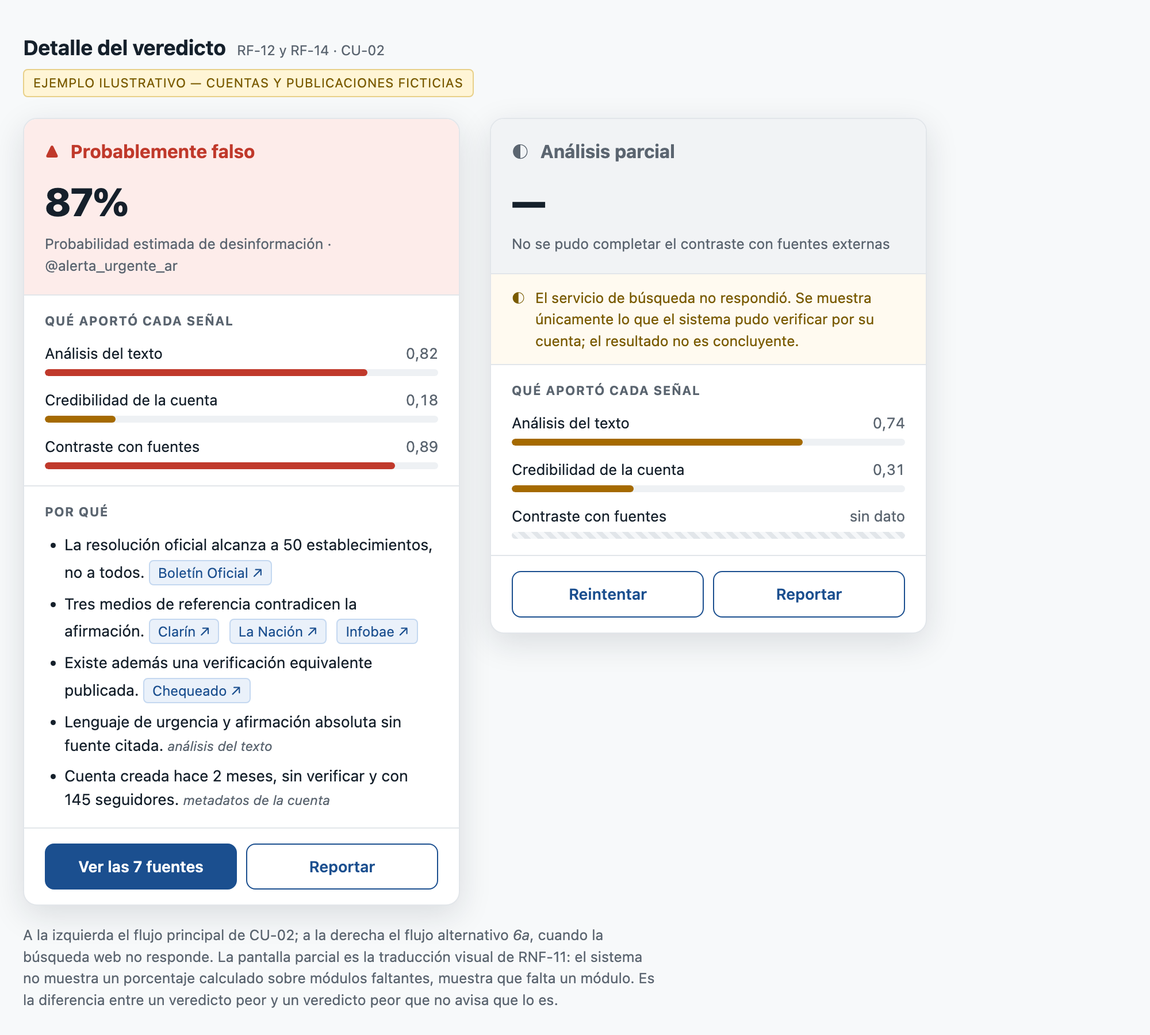
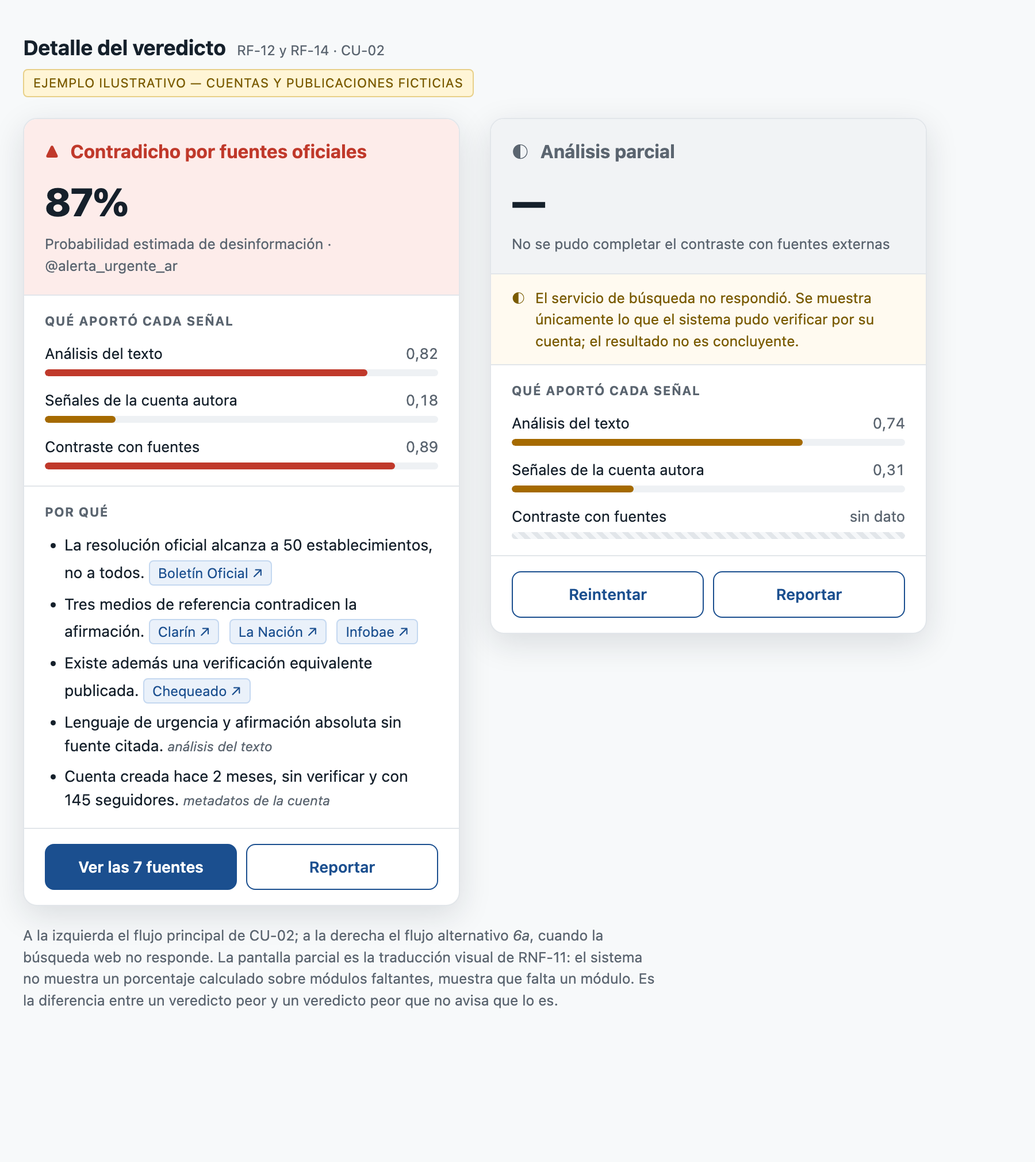
Reescribir requerimientos con las decisiones de agosto
- RNF-08 distingue recibir de persistir la IP; el enunciado anterior
  prometía algo que HTTPS no permite cumplir
- RNF-06 pasa a ser cumplible con el estado «sin contraste externo», que
  el flujo automático emite cuando solo corrió el Módulo 1
- RNF-07 prescribe sobre qué se enuncia y a quién se atribuye, en lugar
  de «probabilidad y no sentencia»
- RF-08, RF-11 y RF-12 con las etiquetas nuevas; RF-24, RF-25 y RNF-10
  ampliados de exportación a toda entrega hacia terceros
- Nuevos RF-28 (índice de fuentes oficiales), RF-29 (textos de cara al
  usuario) y RNF-17 (robots.txt y crawl-delay)
- CU-01, CU-02 4a, CU-03 2a y CU-07 4a alineados; matriz de trazabilidad
  cerrada, con los cuatro RF sin caso de uso justificados
- Mockups y metodologia-tecnica.md alineados y recapturados

Cierra #16.

diff --git a/wiki/assets/mockups/mockups.html b/wiki/assets/mockups/mockups.html
@@ -189,7 +189,7 @@
         <p class="texto">🚨🚨 URGENTE: confirman que a partir del lunes CIERRAN TODAS las escuelas de la Provincia. Me lo pasó alguien del Ministerio. COMPARTAN ANTES DE QUE LO BAJEN 🚨🚨</p>
         <button class="badge b-falso">
           <span class="fig">!</span>
-          <span class="txt"><b>Probablemente falso · 87%</b><em>Lo contradicen el Boletín Oficial, Clarín, La Nación e Infobae</em></span>
+          <span class="txt"><b>Contradicho por fuentes oficiales · 87%</b><em>Lo contradicen el Boletín Oficial, Clarín, La Nación e Infobae</em></span>
           <span class="mas">Ver análisis</span>
         </button>
         <div class="acciones"><span>↩ 42</span><span>🔁 1.204</span><span>♡ 3.891</span></div>
@@ -238,7 +238,7 @@
     </div>
   </div>
 
-  <p class="pie">Los cuatro estados de RF-11. El estado se comunica por tres canales simultáneos —color, forma del ícono y texto— para que no dependa de la percepción del color (RNF-15). Ninguno de los indicadores afirma que el contenido sea falso: el más severo dice <em>probablemente</em> y expone el porcentaje, que es la mitigación de RNF-07 frente a los falsos positivos por sátira o ironía.</p>
+  <p class="pie">Los cuatro estados de RF-11. El estado se comunica por tres canales simultáneos —color, forma del ícono y texto— para que no dependa de la percepción del color (RNF-15). Ninguno de los indicadores afirma por sí mismo que el contenido sea falso: el más severo atribuye el juicio a la fuente que lo sostiene y expone el porcentaje, que es la mitigación de RNF-07 frente a los falsos positivos por sátira o ironía.</p>
 </section>
 
 <!-- ============ 2. POPUP ============ -->
@@ -249,7 +249,7 @@
   <div class="fila">
     <div class="popup">
       <div class="p-tapa falso">
-        <div class="p-vered"><span>▲</span> Probablemente falso</div>
+        <div class="p-vered"><span>▲</span> Contradicho por fuentes oficiales</div>
         <div class="p-score">87%</div>
         <div class="p-sub">Probabilidad estimada de desinformación · @alerta_urgente_ar</div>
       </div>
@@ -261,7 +261,7 @@
           <div class="barra"><i style="width:82%;background:var(--falso)"></i></div>
         </div>
         <div class="mod">
-          <div class="mod-t"><span>Credibilidad de la cuenta</span><span>0,18</span></div>
+          <div class="mod-t"><span>Señales de la cuenta autora</span><span>0,18</span></div>
           <div class="barra"><i style="width:18%;background:var(--sosp)"></i></div>
         </div>
         <div class="mod">
@@ -313,7 +313,7 @@
           <div class="barra"><i style="width:74%;background:var(--sosp)"></i></div>
         </div>
         <div class="mod">
-          <div class="mod-t"><span>Credibilidad de la cuenta</span><span>0,31</span></div>
+          <div class="mod-t"><span>Señales de la cuenta autora</span><span>0,31</span></div>
           <div class="barra"><i style="width:31%;background:var(--sosp)"></i></div>
         </div>
         <div class="mod">
@@ -436,7 +436,7 @@
 
     <div class="kpis">
       <div class="kpi"><b>18.427</b><span>Publicaciones analizadas</span></div>
-      <div class="kpi"><b>1.312</b><span>Marcadas como probablemente falsas</span></div>
+      <div class="kpi"><b>1.312</b><span>Contradichas por fuentes oficiales</span></div>
       <div class="kpi"><b>7,1%</b><span>Tasa de contenido marcado</span></div>
       <div class="kpi"><b>+2,4 pp</b><span>Variación semanal <em>▲</em></span></div>
     </div>

diff --git a/wiki/solucion/requerimientos.md b/wiki/solucion/requerimientos.md
@@ -3,7 +3,7 @@ titulo: Requerimientos y Casos de Uso
 tipo: análisis
 tags: [requerimientos, funcionales, no-funcionales, casos-de-uso, moscow]
 fuentes: [Rubrica-EP2-50porciento.pdf]
-actualizado: 2026-08-09
+actualizado: 2026-08-10
 ---
 
 # Requerimientos y Casos de Uso
@@ -20,6 +20,8 @@ Dos de esas decisiones atraviesan todo el documento y conviene tenerlas presente
 
 Se usa MoSCoW. **Imprescindible** es lo que sin ello no hay producto y entra en el prototipo del PFI; **Importante** es lo que el prototipo debería tener y se implementa si el cronograma lo permite; **Deseable** queda declarado pero no compromete la entrega.
 
+**La numeración no se recicla.** Los identificadores se asignan una sola vez: los requerimientos que aparecen después de la primera versión se agregan al final de su tabla aunque pertenezcan temáticamente a un grupo anterior, y uno que se elimine se marcaría como tal en lugar de liberar su número. Es lo que permite que una discusión sobre RF-08 signifique lo mismo en agosto y en noviembre.
+
 ---
 
 ## Requerimientos funcionales
@@ -30,21 +32,22 @@ Se usa MoSCoW. **Imprescindible** es lo que sin ello no hay producto y entra en 
 |---|---|---|
 | RF-01 | El sistema debe identificar los tuits visibles en el *timeline* de Twitter/X y extraer de cada uno su texto, su identificador nativo, la cuenta autora y sus métricas públicas de propagación | Imprescindible |
 | RF-02 | El sistema debe clasificar automáticamente el texto de cada tuit visible mediante el clasificador de lenguaje natural y obtener un `score_nlp` en el rango [0,1] | Imprescindible |
-| RF-03 | El sistema debe evaluar la credibilidad de la cuenta autora a partir de sus metadatos públicos —antigüedad, cantidad de seguidores y seguidos, verificación e historial de contenido marcado— y obtener un `score_source` | Imprescindible |
+| RF-03 | El sistema debe obtener un `score_source` a partir de las señales públicas de la cuenta autora —antigüedad, cantidad de seguidores y seguidos, verificación e historial de contenido marcado—, tratadas como atributo del contenido evaluado y no como juicio sobre la persona | Imprescindible |
 | RF-04 | El sistema debe extraer del tuit la afirmación verificable que contiene y clasificarla por tipo: normativa, dato económico, salud, educación u otro | Imprescindible |
 | RF-05 | El sistema debe consultar los medios de referencia —Infobae, Clarín, La Nación, Página/12 y Télam— y determinar para cada resultado si corrobora, contradice o es neutral respecto de la afirmación analizada | Imprescindible |
-| RF-06 | El sistema debe consultar la fuente oficial que corresponda al tipo de afirmación —InfoLEG, INDEC, BCRA, Boletín Oficial, MSal o MinEdu— y contrastar la afirmación contra el documento recuperado | Imprescindible |
-| RF-07 | El sistema debe buscar, por similitud semántica sobre *embeddings*, verificaciones previas equivalentes publicadas por verificadores profesionales, e incorporarlas como una fuente adicional cuando existan | Importante |
-| RF-08 | El sistema debe combinar los tres *scores* parciales en un veredicto de tres niveles —probablemente falso, información sospechosa, parece verificado— aplicando umbrales configurables | Imprescindible |
+| RF-06 | El sistema debe contrastar la afirmación contra los documentos de la fuente oficial que corresponda a su tipo —InfoLEG, INDEC, BCRA, Boletín Oficial, MSal o MinEdu—, recuperados del índice local que mantiene RF-28 | Imprescindible |
+| RF-07 | El sistema debe buscar, por similitud semántica sobre *embeddings*, verificaciones previas equivalentes publicadas por verificadores profesionales, e incorporarlas como una fuente adicional cuando existan. No accede de forma directa al sitio de ningún verificador: se apoya en lo indexado y cita el artículo original enlazado | Importante |
+| RF-08 | El sistema debe combinar los tres *scores* parciales en un veredicto de tres niveles —contradicho por fuentes oficiales, información sospechosa, parece verificado— aplicando umbrales configurables. Cuando ningún módulo de contraste externo haya encontrado fuente, el resultado se emite en el estado *sin contraste externo* y no como uno de los tres niveles | Imprescindible |
 | RF-09 | El sistema debe generar, junto con el veredicto, una justificación en lenguaje natural donde **cada razón derivada de evidencia externa lleve el enlace a la fuente que la respalda** | Imprescindible |
 | RF-10 | El sistema debe reutilizar un análisis previo cuando el mismo tuit vuelve a solicitarse y el resultado sigue vigente | Importante |
+| RF-28 | El sistema debe mantener un índice local de los documentos de las seis fuentes oficiales, actualizado por un proceso de ingesta periódico que respete el `crawl-delay` declarado por cada sitio y registre la fecha de la última corrida por fuente | Imprescindible |
 
 ### Presentación al usuario
 
 | ID | Descripción | Prioridad |
 |---|---|---|
-| RF-11 | La extensión debe mostrar sobre cada tuit analizado un indicador visual con el estado resultante, y un cuarto estado transitorio mientras el análisis está en curso | Imprescindible |
-| RF-12 | La extensión debe permitir abrir, desde el indicador, el detalle del análisis con el *score* final y el desglose de los tres *scores* parciales | Imprescindible |
+| RF-11 | La extensión debe mostrar sobre cada tuit analizado un indicador visual con el estado resultante: los tres niveles de RF-08, el estado *sin contraste externo* —visualmente distinto de los tres y sin porcentaje— y un estado transitorio mientras el análisis está en curso | Imprescindible |
+| RF-12 | La extensión debe permitir abrir, desde el indicador, el detalle del análisis con el *score* final y el desglose de los tres *scores* parciales, rotulando el del Módulo 2 como señales de la cuenta autora y no como juicio sobre quien publica | Imprescindible |
 | RF-13 | La extensión debe presentar las fuentes vinculadas ordenadas según la jerarquía de evidencia —fuente oficial, medios de referencia, verificación previa— y etiquetadas por postura, cada una con el enlace al documento original | Imprescindible |
 | RF-14 | El sistema debe señalar explícitamente cuando el análisis es parcial porque alguno de los módulos no pudo ejecutarse | Importante |
 | RF-15 | El panel web debe permitir al usuario consultar el histórico de los análisis solicitados desde su instalación | Importante |
@@ -57,6 +60,9 @@ Se usa MoSCoW. **Imprescindible** es lo que sin ello no hay producto y entra en 
 | RF-17 | El usuario debe poder reportar que un veredicto es incorrecto, indicando si se trata de un falso positivo o de un falso negativo y el motivo | Importante |
 | RF-18 | El sistema debe registrar los reportes de forma que puedan usarse para la revisión de errores y el reentrenamiento del modelo | Importante |
 | RF-19 | El usuario debe poder ajustar la sensibilidad del indicador, desplazando los umbrales de los tres veredictos | Deseable |
+| RF-29 | La extensión y el panel web deben mostrar la finalidad declarada del tratamiento y la vía de supresión del art. 16 de la Ley 25.326, con su plazo de cinco días hábiles | Imprescindible |
+
+RF-29 no es una cláusula de cortesía. La retención sin plazo que fija [[wiki/proyecto/restricciones-legales-eticas]] se sostiene sobre dos condiciones —finalidad declarada estrecha y canal de supresión que funcione— y estos dos textos son la superficie donde ambas se hacen efectivas. Sin ellos, esa decisión se cae.
 
 ### Plataforma B2B
 
@@ -66,10 +72,12 @@ Se usa MoSCoW. **Imprescindible** es lo que sin ello no hay producto y entra en 
 | RF-21 | El sistema debe permitir emitir y revocar claves de API asociadas a una organización | Importante |
 | RF-22 | El sistema debe exponer un endpoint de clasificación autenticado por clave, que devuelva el *score*, el veredicto y las fuentes vinculadas | Importante |
 | RF-23 | El sistema debe aplicar la cuota mensual de consultas correspondiente al plan contratado y registrar el consumo | Importante |
-| RF-24 | El panel web debe ofrecer a los clientes B2B una vista de tendencias: temas con mayor circulación de contenido marcado, evolución temporal y cuentas con mayor volumen de contenido marcado | Importante |
-| RF-25 | Toda exportación de datos hacia un cliente B2B debe entregarse agregada o con la cuenta autora anonimizada | Imprescindible |
+| RF-24 | El panel web debe ofrecer a los clientes B2B una vista de tendencias: temas con mayor circulación de contenido marcado, evolución temporal y cuentas con mayor volumen de contenido marcado, identificadas mediante un seudónimo que no permita recuperar la cuenta original | Importante |
+| RF-25 | Toda entrega de datos hacia un cliente B2B —exportación de archivo, respuesta de la API o visualización en pantalla— debe entregarse agregada o con la cuenta autora anonimizada | Imprescindible |
 
-RF-25 tiene prioridad más alta que los requerimientos B2B que lo rodean por una razón deliberada: es la mitigación de diseño del riesgo del art. 11 de la Ley 25.326 que se desarrolla en [[wiki/proyecto/restricciones-legales-eticas]]. Si la plataforma B2B se implementa, ese requerimiento no es opcional.
+RF-25 tiene prioridad más alta que los requerimientos B2B que lo rodean por una razón deliberada: es la mitigación de diseño del riesgo del art. 11 de la Ley 25.326 que se desarrolla en [[wiki/proyecto/restricciones-legales-eticas]]. Si la plataforma B2B se implementa, ese requerimiento no es opcional. Es además la condición que activa la excepción del inciso 3.e de ese artículo, que exime del consentimiento cuando media un procedimiento de disociación que vuelve inidentificables a los titulares.
+
+**RF-24 y RF-25 dicen «entrega» y no «exportación» a propósito.** El panel de tendencias mostrado a un analista de otra organización es una entrega hacia un tercero tanto como un archivo descargado, y era la superficie que la redacción anterior dejaba afuera.
 
 ### Persistencia y trazabilidad
 
@@ -93,11 +101,12 @@ Los valores comprometidos son objetivos de diseño y se validan experimentalment
 | RNF-03 | Rendimiento | Un tuit ya analizado y vigente debe resolverse desde caché dentro de los 300 milisegundos |
 | RNF-04 | Rendimiento | El procesamiento en el navegador no debe degradar la fluidez del *scroll*: el trabajo ejecutado en el hilo principal por cada tuit no debe superar los 50 milisegundos |
 | RNF-05 | Calidad del modelo | El clasificador debe alcanzar un F1 macro de 0,80 y superar en al menos 10 puntos porcentuales a la línea base de TF-IDF con regresión logística |
-| RNF-06 | Explicabilidad | Todo veredicto distinto de *parece verificado* debe presentarse acompañado de al menos una fuente enlazada verificable |
-| RNF-07 | Explicabilidad | El resultado debe comunicarse como probabilidad y nunca como sentencia definitiva sobre la veracidad del contenido |
-| RNF-08 | Privacidad | El sistema no debe recolectar ningún dato personal del usuario de la extensión: la identificación es un UUID generado localmente, sin correo, sin dirección IP y sin perfilado |
+| RNF-06 | Explicabilidad | Todo veredicto que afirme algo sobre la afirmación analizada debe presentarse acompañado de al menos una fuente enlazada verificable. Cuando ninguna exista, el sistema debe emitir el estado *sin contraste externo* en lugar de un veredicto |
+| RNF-07 | Explicabilidad | El resultado debe enunciarse sobre la afirmación analizada y nunca sobre la persona que la publicó, y el nivel severo debe atribuir el juicio a la fuente que lo sostiene en lugar de afirmarlo el sistema por su cuenta |
+| RNF-08 | Privacidad | El sistema no persiste datos personales del usuario de la extensión. La dirección IP se recibe en tránsito por el propio protocolo y no se registra ni en la base ni en los *logs* de aplicación. La identificación es un UUID generado localmente, sin correo y sin perfilado |
 | RNF-09 | Privacidad | El tratamiento del contenido de terceros se ampara en el art. 5 inc. 2.b de la Ley 25.326, que exime del consentimiento a los datos de fuentes de acceso público irrestricto. Quedan expresamente excluidas del análisis las cuentas protegidas y los mensajes directos |
-| RNF-10 | Privacidad | Ninguna exportación hacia terceros debe contener la identidad de la cuenta autora en claro |
+| RNF-10 | Privacidad | Ninguna entrega hacia terceros, incluida la visualización en pantalla del panel B2B, debe contener la identidad de la cuenta autora en claro |
+| RNF-17 | Legalidad | Todo acceso automatizado a un sitio de terceros debe respetar lo declarado en su `robots.txt`, incluido el `crawl-delay`, y no debe eludir ningún bloqueo de acceso deliberado |
 | RNF-11 | Disponibilidad | Ante la indisponibilidad del servicio de inferencia o de la API de búsqueda, el sistema debe devolver un análisis parcial identificado como tal, nunca un error opaco ni un veredicto construido sobre módulos faltantes |
 | RNF-12 | Seguridad | Toda comunicación debe realizarse sobre HTTPS y las claves de API deben almacenarse hasheadas |
 | RNF-13 | Compatibilidad | El sistema debe funcionar sobre Google Chrome de escritorio bajo Manifest V3, en Windows, macOS y Linux. No se contempla soporte móvil ni otros navegadores |
@@ -105,13 +114,21 @@ Los valores comprometidos son objetivos de diseño y se validan experimentalment
 | RNF-15 | Usabilidad | El indicador debe ser interpretable sin instrucción previa por un usuario sin conocimiento técnico |
 | RNF-16 | Mantenibilidad | Los umbrales de los veredictos y los pesos del ensamblado deben ser configurables sin necesidad de volver a desplegar el servicio |
 
-Tres de estos merecen una nota, porque no son genéricos sino consecuencia directa de decisiones ya tomadas.
+Cinco de estos merecen una nota, porque no son genéricos sino consecuencia directa de decisiones ya tomadas.
 
 **RNF-01 y RNF-02 son distintos a propósito.** Si hubiera un solo flujo habría un solo número, y ese número tendría que ser el peor de los dos. Separarlos es lo que permite que el indicador aparezca rápido sin renunciar a la profundidad del contraste semántico.
 
-**RNF-07 es la mitigación del riesgo más señalado del proyecto.** La propuesta reconoce que el modelo puede marcar como sospechoso contenido satírico o irónico. La respuesta de diseño no es intentar eliminar ese error —no es eliminable— sino no presentar nunca el resultado con una autoridad que el sistema no tiene.
+**RNF-06 era incumplible tal como estaba enunciado, y el estado *sin contraste externo* es lo que lo repara.** La versión anterior exigía al menos una fuente enlazada para todo veredicto distinto de *parece verificado*, y el propio diseño la incumplía por tres caminos: CU-01 pinta el indicador con `score_nlp` y sin evidencia alguna; el flujo alternativo *4a* de CU-02 se apoya solo en los Módulos 1 y 2 cuando no hay afirmación verificable; y el *2a* de CU-03 contempla que no haya ninguna fuente vinculada. La mitigación más fuerte del proyecto no era obligatoria. Ahora la ausencia de evidencia se muestra como ausencia en lugar de vestirse de veredicto, y RNF-01 sobrevive: el flujo automático sigue avisando sin que se lo pidan, que es la razón de ser de la extensión.
+
+**RNF-07 dejó de prescribir «probabilidad y no sentencia» y pasa a prescribir sobre qué y a quién se atribuye.** La formulación anterior mitigaba un riesgo que la Ley 26.551 cerró en 2009 —las expresiones sobre asuntos de interés público quedaron fuera del ámbito penal— y a cambio empujaba hacia un *score* desnudo que rompe RNF-15. Lo que sí queda expuesto es el juicio asertivo sobre una persona determinada, y eso es lo que el requerimiento prohíbe ahora. El análisis completo está en [[wiki/proyecto/restricciones-legales-eticas]].
+
+**RNF-08 prometía lo imposible.** El enunciado anterior comprometía «sin dirección IP», que ninguna API sobre HTTPS puede cumplir: el protocolo la entrega en cada petición. La redacción nueva distingue recibir de persistir, que es la distinción que efectivamente se puede sostener y verificar. Se descartó persistirla resumida criptográficamente: sumaba una tercera categoría de dato seudonimizado a la base para limitar un abuso que el prototipo no tiene.
 
 **RNF-11 no es una cláusula de estilo.** El sistema depende de cuatro servicios de terceros sobre los que no tiene control: la inferencia en Hugging Face, la API de búsqueda, los sitios de los medios y los portales oficiales. Un veredicto calculado con el Módulo 3 caído sería un veredicto peor sin avisar que lo es.
+
+**RNF-17 es lo que hace auditable la postura sobre la obtención de datos.** No es un principio general sino una regla contra un archivo concreto y verificable por cualquiera, sitio por sitio. Su segunda mitad —no eludir bloqueos deliberados— es la que deja fuera del alcance el sitio de Chequeado, que responde 403 a todo cliente que no sea un navegador.
+
+**`parcial` y *sin contraste externo* son cosas distintas y por eso conviven.** RF-14 marca que un módulo **no pudo** ejecutarse; el estado de RF-08 marca que el módulo **corrió y no encontró** fuente. Pueden darse a la vez, así que se representan por separado.
 
 ---
 
@@ -135,17 +152,19 @@ Actores del sistema:
 3. La extensión consulta al servicio si existe un análisis vigente para esos identificadores.
 4. Para los que no lo tienen, solicita la clasificación del Módulo 1 en un único pedido agrupado.
 5. El servicio devuelve el `score_nlp` de cada tuit.
-6. La extensión inyecta sobre cada tuit el indicador correspondiente al estado.
+6. La extensión inyecta sobre cada tuit el indicador en el estado *sin contraste externo*, que señala que hay señales en el texto y todavía no hay evidencia que las contraste.
 
 **Flujos alternativos:**
 
-- *3a.* Existe análisis vigente en caché: se pinta el indicador directamente y se omiten los pasos 4 y 5 (RF-10).
+- *3a.* Existe un análisis completo vigente en caché: se pinta directamente el nivel que corresponda de RF-08, con su evidencia ya asociada, y se omiten los pasos 4 y 5 (RF-10).
 - *4a.* El servicio de inferencia no responde dentro del tiempo límite: no se pinta indicador alguno y el tuit queda sin marcar. No se muestra error, porque el usuario no pidió nada.
 - *2a.* El tuit no contiene texto analizable —solo imagen o video—: queda fuera del alcance del prototipo y no se marca.
 
 **Postcondición:** los tuits visibles tienen indicador, y el resultado quedó registrado según RF-26.
 
 Es el caso de uso que más veces se ejecuta y el único que nadie dispara a mano. También es el que fija RNF-01 y RNF-04: todo lo que ocurre acá ocurre mientras alguien está haciendo *scroll*.
+
+**El flujo automático no emite ninguno de los tres niveles de RF-08 sobre un tuit que ve por primera vez**, y esa es la consecuencia directa de RNF-06. Solo corrió el Módulo 1, así que no hay ninguna fuente que enlazar y afirmar sería afirmar sin respaldo. El indicador aparece igual —RNF-01 se cumple y la extensión sigue avisando sin que se lo pidan—, pero como marca de atención y no como veredicto. El veredicto con nivel y porcentaje aparece cuando hay evidencia: en el *3a*, si el tuit ya fue analizado a fondo, o en CU-02, si el usuario lo pide.
 
 ### CU-02 — Solicitar el análisis profundo de un tuit
 
@@ -157,14 +176,14 @@ Es el caso de uso que más veces se ejecuta y el único que nadie dispara a mano
 2. La extensión muestra el estado transitorio de análisis en curso y solicita el análisis completo.
 3. El servicio ejecuta el Módulo 2 sobre los metadatos de la cuenta.
 4. El servicio extrae la afirmación verificable y la clasifica por tipo (RF-04).
-5. El servicio consulta la fuente oficial que corresponde al tipo de afirmación y los cinco medios de referencia, y clasifica la postura de cada resultado (RF-05 y RF-06).
+5. El servicio recupera del índice local los documentos de la fuente oficial que corresponde al tipo de afirmación y consulta los cinco medios de referencia, y clasifica la postura de cada resultado (RF-05 y RF-06).
 6. El servicio busca, además, si existe una verificación previa equivalente y la suma como una fuente más (RF-07).
 7. El Módulo 4 combina los tres *scores* y genera el veredicto y su justificación.
 8. La extensión actualiza el indicador y despliega el detalle con el desglose por módulo.
 
 **Flujos alternativos:**
 
-- *4a.* No se identifica ninguna afirmación verificable —opinión, humor, contenido personal—: se informa que el contenido no es verificable y el veredicto se apoya solo en los Módulos 1 y 2, señalado como análisis parcial (RF-14).
+- *4a.* No se identifica ninguna afirmación verificable —opinión, humor, contenido personal—: se informa que el contenido no contiene una afirmación verificable y el resultado se emite en el estado *sin contraste externo*, apoyado solo en los Módulos 1 y 2. **No se marca como análisis parcial:** ningún módulo falló, simplemente no hay nada que contrastar, y RF-14 significa otra cosa.
 - *5a.* La afirmación no tiene cobertura en ninguno de los cinco medios: la ausencia de cobertura es en sí misma una señal —un hecho de relevancia pública tendría cobertura— y se comunica como tal, no como falta de datos.
 - *6a.* No existe verificación previa equivalente, que es el caso frecuente: `score_similarity` se calcula con la fuente oficial y el consenso de medios, sin degradarse.
 - *5b y 6b.* La búsqueda web o la fuente oficial no responden: se devuelve análisis parcial identificado como tal (RNF-11).
@@ -184,7 +203,7 @@ Es el caso de uso que más veces se ejecuta y el único que nadie dispara a mano
 
 **Flujos alternativos:**
 
-- *2a.* No hay ninguna fuente vinculada: se informa que no se encontró evidencia externa y se aclara que el veredicto se sostiene únicamente en el análisis lingüístico y de la cuenta.
+- *2a.* No hay ninguna fuente vinculada: el análisis está en el estado *sin contraste externo*, y el panel lo dice con esas palabras en lugar de mostrarse vacío. Se aclara que el resultado se sostiene únicamente en el análisis del texto y en las señales de la cuenta, y que por eso no lleva porcentaje.
 
 Es el caso de uso que materializa la propuesta de valor. Sin él, el producto es un clasificador ciego indistinguible de los competidores de la matriz comparativa de [[wiki/competencia/analisis-competitivo]].
 
@@ -250,7 +269,7 @@ El histórico está atado al navegador y no a una persona. Es la contrapartida d
 
 **Flujos alternativos:**
 
-- *4a.* La exportación se entrega agregada o con la cuenta autora anonimizada, conforme RF-25 y RNF-10.
+- *4a.* La exportación se entrega agregada o con la cuenta autora anonimizada, conforme RF-25 y RNF-10. La misma regla rige la pantalla del paso 3: las cuentas se muestran bajo un seudónimo que no permite recuperar la original, porque mostrar en pantalla a un analista de otra organización es una entrega hacia un tercero tanto como un archivo descargado.
 
 Este caso de uso es el que conecta el capítulo de negocio con el de solución: es literalmente el producto que se vende a los segmentos descritos en [[wiki/negocio/modelo-de-negocio]].
 
@@ -262,15 +281,19 @@ Cada caso de uso realiza un conjunto de requerimientos funcionales. La matriz si
 
 | Caso de uso | Requerimientos que realiza |
 |---|---|
-| CU-01 | RF-01, RF-02, RF-10, RF-11, RF-26, RF-27 |
-| CU-02 | RF-03, RF-04, RF-05, RF-06, RF-07, RF-08, RF-12, RF-14, RF-26, RF-27 |
+| CU-01 | RF-01, RF-02, RF-08, RF-10, RF-11, RF-26, RF-27 |
+| CU-02 | RF-03, RF-04, RF-05, RF-06, RF-07, RF-08, RF-09, RF-12, RF-14, RF-26, RF-27 |
 | CU-03 | RF-13 |
 | CU-04 | RF-17, RF-18 |
 | CU-05 | RF-15 |
-| CU-06 | RF-21, RF-22, RF-23 |
+| CU-06 | RF-21, RF-22, RF-23, RF-25 |
 | CU-07 | RF-20, RF-24, RF-25 |
 
-Quedan sin caso de uso asociado RF-16 y RF-19, ambos de prioridad *deseable*: son opciones de configuración que no constituyen un objetivo de usuario en sí mismo.
+Cuatro requerimientos quedan sin caso de uso asociado, y los cuatro se justifican:
+
+- **RF-16 y RF-19**, de prioridad *deseable*, son opciones de configuración que no constituyen un objetivo de usuario en sí mismo.
+- **RF-28** es un proceso periódico del sistema, sin actor que lo dispare y sin objetivo de usuario propio. Funciona como precondición de CU-02: cuando el paso 5 recupera documentos oficiales, los recupera de lo que este proceso dejó indexado. Modelarlo como caso de uso habría obligado a inventar un actor para un trabajo programado que nadie observa.
+- **RF-29** es un requerimiento de superficie, no de flujo: los dos textos están visibles en el *popup* y en el panel web, y ningún caso de uso los tiene como objetivo. Su ausencia en la matriz no lo vuelve opcional, y por eso su prioridad es *imprescindible*.
 
 ## Diagrama de casos de uso
 

diff --git a/log.md b/log.md
@@ -3,6 +3,24 @@
 > Registro cronológico append-only. Formato de cada entrada: `## [YYYY-MM-DD] tipo | descripción`
 > Tipos: `setup` | `ingest` | `query` | `lint` | `update`
 
+## [2026-08-10] update | Requerimientos reescritos con las decisiones de agosto
+
+Aplicadas de una vez las correcciones que dejaron pendientes tres decisiones, para no tocar `requerimientos.md` tres veces y arriesgar que las tablas queden desincronizadas entre sí. Quedan **29 funcionales y 17 no funcionales**.
+
+**RNF-08 prometía lo imposible.** Comprometía «sin dirección IP», que ninguna API sobre HTTPS puede cumplir porque el protocolo la entrega en cada petición. El enunciado nuevo distingue **recibir de persistir**, que es la distinción que se puede sostener y verificar.
+
+**RNF-06 era incumplible y el propio diseño lo incumplía por tres caminos.** El estado *sin contraste externo* lo repara: cuando ningún módulo externo encontró fuente, el indicador se emite igual pero como ausencia declarada y sin porcentaje, en lugar de vestirse de veredicto. La consecuencia que hay que tener presente en la exposición: **el flujo automático ya no emite ninguno de los tres niveles sobre un tuit que ve por primera vez**, porque solo corrió el Módulo 1 y no hay ninguna fuente que enlazar. El indicador sigue apareciendo en dos segundos —RNF-01 vive— pero como marca de atención. El veredicto con nivel y porcentaje aparece con el acierto de caché o con CU-02.
+
+**RNF-07 cambió de objeto.** Dejó de prescribir «probabilidad y no sentencia» —que mitigaba un riesgo cerrado en 2009 y empujaba hacia un *score* desnudo que rompe RNF-15— y pasa a prescribir sobre qué se enuncia y a quién se atribuye.
+
+**Tres requerimientos nuevos.** RF-28, el índice local de fuentes oficiales que mantiene la ingesta periódica, sin el cual RF-06 describía una consulta en vivo incompatible con RNF-02. RF-29, los dos textos de cara al usuario, que son lo que sostiene la retención sin plazo. Y RNF-17, la regla de respetar el `robots.txt` de cada destino y no eludir bloqueos deliberados, que es lo que vuelve auditable la postura sobre la obtención de datos sitio por sitio en lugar de pedirle confianza al lector.
+
+**`parcial` y *sin contraste externo* conviven porque son cosas distintas**: uno marca que un módulo no pudo correr, el otro que corrió y no encontró. Por eso el flujo alternativo *4a* de CU-02 —no hay afirmación verificable— dejó de marcarse como análisis parcial: ningún módulo falló.
+
+**RF-24, RF-25 y RNF-10 dicen «entrega» y no «exportación».** El panel mostrado a un analista de otra organización es una entrega hacia un tercero tanto como un archivo descargado, y era la superficie que la redacción anterior dejaba afuera.
+
+**Los mockups se actualizaron y se recapturaron,** porque dejarlos diciendo «Probablemente falso» mientras el requerimiento dice otra cosa es exactamente la desincronización que este trabajo evita. Cambiaron tres cadenas —el rótulo del nivel severo, el del Módulo 2 y el KPI del panel— y sus pies de figura. También `metodologia-tecnica.md`, donde el extremo inferior de la escala del Módulo 2 decía «fuente no confiable (bot, fake account)» y ahora dice «señales débiles de trayectoria pública»: es el único enunciado del proyecto que afirmaba sobre una persona determinada, y es el flanco que la reforma de 2009 no cubre.
+
 ## [2026-08-10] update | Apartado legal reescrito entero
 
 `wiki/proyecto/restricciones-legales-eticas.md` era un borrador del 19/04 que contradecía el diseño en seis puntos y omitía los artículos que sostienen la defensa. Se reescribió completo, **organizado por acto y no por norma**: cada cosa que el sistema hace tiene su riesgo y su defensa, y meterlas todas en una matriz de semáforos es lo que lo volvía indefendible.

diff --git a/wiki/solucion/mockups.md b/wiki/solucion/mockups.md
@@ -35,13 +35,13 @@ Las capturas se regeneran con Chrome en modo *headless*, a doble resolución:
 
 **Realiza:** RF-11 · **Caso de uso:** CU-01 · **Captura:** `badge.png`
 
-Cuatro tuits del *timeline*, uno por cada estado posible: probablemente falso, información sospechosa, parece verificado y el estado transitorio de análisis en curso. Es la pantalla más importante del producto, porque es la única que el usuario ve sin haber pedido nada.
+Cuatro tuits del *timeline*: los tres niveles de veredicto de RF-08 —contradicho por fuentes oficiales, información sospechosa y parece verificado— y el estado transitorio de análisis en curso. El quinto estado de RF-11, *sin contraste externo*, reutiliza el patrón visual del análisis parcial que dibuja la pantalla siguiente. Es la pantalla más importante del producto, porque es la única que el usuario ve sin haber pedido nada.
 
 Dos decisiones de diseño que no son cosméticas:
 
-**El estado se comunica por tres canales a la vez** —color, forma del ícono y texto—. Un usuario que no distingue rojo de verde lee "Probablemente falso" y ve un triángulo en lugar de un tilde. Es lo que sostiene RNF-15, que exige que el indicador sea interpretable sin instrucción previa.
+**El estado se comunica por tres canales a la vez** —color, forma del ícono y texto—. Un usuario que no distingue rojo de verde lee "Contradicho por fuentes oficiales" y ve un triángulo en lugar de un tilde. Es lo que sostiene RNF-15, que exige que el indicador sea interpretable sin instrucción previa.
 
-**Ningún indicador afirma que el contenido sea falso.** El más severo dice *probablemente* y expone el porcentaje. Es la traducción visual de RNF-07 y la respuesta al riesgo de falsos positivos ante sátira e ironía que la propuesta reconoce: el error no se puede eliminar, pero sí se puede evitar presentarlo con una autoridad que el sistema no tiene.
+**Ningún indicador afirma por sí mismo que el contenido sea falso.** El más severo atribuye el juicio a las fuentes que lo sostienen —«Contradicho por fuentes oficiales»— y expone el porcentaje. Es la traducción visual de RNF-07, y a la vez lo que hace entrar el enunciado en la eximente de atribución fiel del art. 113 del Código Penal que analiza [[wiki/proyecto/restricciones-legales-eticas]] y la respuesta al riesgo de falsos positivos ante sátira e ironía que la propuesta reconoce: el error no se puede eliminar, pero sí se puede evitar presentarlo con una autoridad que el sistema no tiene.
 
 El indicador incluye además una línea de motivo que **nombra las fuentes** —"Lo contradicen el Boletín Oficial, Clarín, La Nación e Infobae"— y adelanta la evidencia sin obligar a abrir nada. Nombrar los medios en lugar de decir "3 medios" es lo que hace que el usuario evalúe la señal en vez de confiar en ella: sabe qué redacciones lo dicen y puede pesarlas con su propio criterio.
 

diff --git a/wiki/proyecto/plan-bloque-diseno.md b/wiki/proyecto/plan-bloque-diseno.md
@@ -90,7 +90,7 @@ Destino: `wiki/solucion/mockups.md` y las capturas en `wiki/assets/mockups/`. Se
 
 | Pantalla | Qué muestra | Por qué está |
 |---|---|---|
-| **Badge en el *timeline*** | El indicador inyectado sobre el tuit, en sus tres estados: probablemente falso, información sospechosa, parece verificado. Más el cuarto estado real: analizando | Es el producto. Si esta pantalla no se entiende en dos segundos, no hay producto |
+| **Badge en el *timeline*** | El indicador inyectado sobre el tuit, en sus tres niveles: contradicho por fuentes oficiales, información sospechosa, parece verificado. Más el estado transitorio de análisis en curso y el de *sin contraste externo*, que llegó con la reescritura del 10/08 | Es el producto. Si esta pantalla no se entiende en dos segundos, no hay producto |
 | **Popup con el veredicto** | Score final, los tres niveles de veredicto con su umbral, desglose por módulo y las razones en lenguaje natural | Muestra que el sistema no es una caja negra binaria |
 | **Panel de evidencia** | Las fuentes vinculadas agrupadas por tipo (desmentida previa, medio confiable, fuente oficial) y por postura (corrobora, contradice, neutral), con el enlace al documento original | Es lo único que ningún competidor de la matriz comparativa entrega al ciudadano |
 | **Dashboard B2B** | Histórico, tendencias semanales, cuentas con más contenido marcado, y el panel de claves de API | Justifica que exista un backend con base de datos y conecta el capítulo de negocio con el de solución |

diff --git a/index.md b/index.md
@@ -26,7 +26,7 @@
 | Página | Descripción |
 |---|---|
 | [[wiki/solucion/metodologia-tecnica]] | Arquitectura ML/DL de 4 módulos: NLP, credibilidad, contraste + web search, ensemble |
-| [[wiki/solucion/requerimientos]] | 27 requerimientos funcionales con prioridad MoSCoW y 16 no funcionales con valor comprometido; siete casos de uso desarrollados con sus flujos alternativos y matriz de trazabilidad |
+| [[wiki/solucion/requerimientos]] | 29 requerimientos funcionales con prioridad MoSCoW y 17 no funcionales con valor comprometido; siete casos de uso desarrollados con sus flujos alternativos y matriz de trazabilidad |
 | [[wiki/solucion/mockups]] | Cuatro pantallas del frontend en HTML y CSS reales: indicador sobre el tuit en sus cuatro estados, detalle del veredicto con su variante de análisis parcial, panel de evidencia y panel de tendencias B2B |
 | [[wiki/solucion/arquitectura]] | Modelo C4 en tres niveles, flujo de información, las dos secuencias y el despliegue con sus cinco zonas de confianza; tabla de dependencias externas con su modo de falla y ocho decisiones de arquitectura con las alternativas evaluadas |
 | [[wiki/solucion/modelo-datos]] | Modelo lógico: diecisiete entidades en cinco dominios, con atributos, tipos, cardinalidades y la matriz de trazabilidad entidad → RF que hace verificable la regla de corte; DER en `der.drawio` |

diff --git a/wiki/solucion/metodologia-tecnica.md b/wiki/solucion/metodologia-tecnica.md
@@ -97,8 +97,8 @@ Entrada: metadatos de la cuenta
 score = sigmoid(w1*age + w2*followers + w3*retweet_rate + ... + b)
 
 Output: score_source ∈ [0, 1]
-  0 = fuente no confiable (bot, fake account)
-  1 = fuente muy confiable (medio verificado, periodista oficial)
+  0 = señales débiles de trayectoria pública
+  1 = señales fuertes de trayectoria pública (medio verificado, periodista oficial)
 ```
 
 ### Caso de uso
